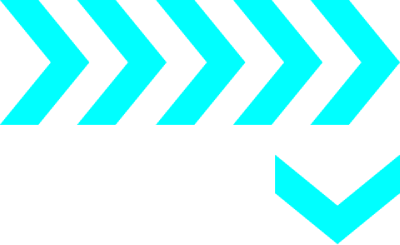
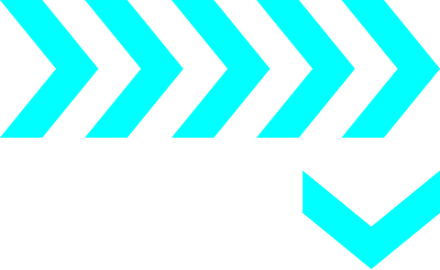
modify the mistake

diff --git a/code/test_rendering_v3/test_rendering.py b/code/test_rendering_v3/test_rendering.py
@@ -71,7 +71,7 @@ if __name__ == '__main__':
             'B2_TLI_2_b': './png/N_B2_TLI_2_b.png', 'B2_TLI_2_f': './png/N_B2_TLI_2_f.png', 'B2_TLI_2_c': './png/N_B2_TLI_2_c.png', 'B2_TLI_2_g': './png/N_B2_TLI_2_g.png', 'B2_TLI_2': './png/N_B2_TLI_2.png',
             'B2_TLI_3_a': './png/N_B2_TLI_3_a.png', 'B2_TLI_3_b': './png/N_B2_TLI_3_b.png', 'B2_TLI_3_c': './png/N_B2_TLI_3_c.png', 'B2_TLI_3_d': './png/N_B2_TLI_3_d.png',
             'B2_TAI_1': './png/N_B2_TAI_1.png', 'B2_TAI_2_a': './png/N_B2_TAI_2_a.png', 'B2_TAI_2_b': './png/N_B2_TAI_2_b.png', 'B2_TAI_2_c': './png/N_B2_TAI_2_c.png', 
-            'B2_TAI_2_d': './png/N_B2_TAI_2_d.png', 'B2_TAI_2_e': './png/N_B2_TAI_2_e.png', 'B2_TAI_2_f': './png/N_B2_TAI_2_f.png', 'B2_TAI_2': './png/N_B2_TAI_2.png',
+            'B2_TAI_2_d': './png/N_B2_TAI_2_d.png', 'B2_TAI_2_e': './png/N_B2_TAI_2_e.png', 'B2_TAI_2': './png/N_B2_TAI_2.png',
             'B2_TAI_3_a': './png/N_B2_TAI_3_a.png', 'B2_TAI_3_b': './png/N_B2_TAI_3_b.png', 'B2_TAI_3_c': './png/N_B2_TAI_3_c.png', 'B2_TAI_3_d': './png/N_B2_TAI_3_d.png', 'B2_TAI_3_e': './png/N_B2_TAI_3_e.png',
             'B3_FCW_B': './png/A_B3_FCW_B.png', 'B3_FCW_BA': './png/A_B3_FCW_BA.png', 'B3_FCW_R': './png/A_B3_FCW_R.png', 'B3_PDW_1': './png/A_B3_PDW_1.png', # B3
             'B3_PDW_2': './png/A_B3_PDW_2.png', 'B3_PDW_3': './png/A_B3_PDW_3.png', 'B3_PDW_4': './png/A_B3_PDW_4.png',
@@ -160,19 +160,18 @@ if __name__ == '__main__':
     B2_TLI_3_d = attributes(images['B2_TLI_3_d'][0], images['B2_TLI_3_d'][1], images['B2_TLI_3_d'][2], 0, 400, 182)
     
     B2_TAI_1 = attributes(images['B2_TAI_1'][0], images['B2_TAI_1'][1], images['B2_TAI_1'][2], 0, 520, 184)
-    B2_TAI_2_a = attributes(images['B2_TAI_2_a'][0], images['B2_TAI_2_a'][1], images['B2_TAI_2_a'][2], 0, 500, 172)
-    B2_TAI_2_b = attributes(images['B2_TAI_2_b'][0], images['B2_TAI_2_b'][1], images['B2_TAI_2_b'][2], 0, 480, 160)
-    B2_TAI_2_c = attributes(images['B2_TAI_2_c'][0], images['B2_TAI_2_c'][1], images['B2_TAI_2_c'][2], 0, 460, 148)
-    B2_TAI_2_d = attributes(images['B2_TAI_2_d'][0], images['B2_TAI_2_d'][1], images['B2_TAI_2_d'][2], 0, 440, 136)
-    B2_TAI_2_e = attributes(images['B2_TAI_2_e'][0], images['B2_TAI_2_e'][1], images['B2_TAI_2_e'][2], 0, 420, 124)
-    B2_TAI_2_f = attributes(images['B2_TAI_2_f'][0], images['B2_TAI_2_f'][1], images['B2_TAI_2_f'][2], 0, 400, 112)
+    B2_TAI_2_a = attributes(images['B2_TAI_2_a'][0], images['B2_TAI_2_a'][1], images['B2_TAI_2_a'][2], 0, 500, 171)
+    B2_TAI_2_b = attributes(images['B2_TAI_2_b'][0], images['B2_TAI_2_b'][1], images['B2_TAI_2_b'][2], 0, 476, 159)
+    B2_TAI_2_c = attributes(images['B2_TAI_2_c'][0], images['B2_TAI_2_c'][1], images['B2_TAI_2_c'][2], 0, 452, 155)
+    B2_TAI_2_d = attributes(images['B2_TAI_2_d'][0], images['B2_TAI_2_d'][1], images['B2_TAI_2_d'][2], 0, 428, 155)
+    B2_TAI_2_e = attributes(images['B2_TAI_2_e'][0], images['B2_TAI_2_e'][1], images['B2_TAI_2_e'][2], 0, 404, 155)
     
-    B2_TAI_2 = attributes(images['B2_TAI_2'][0], images['B2_TAI_2'][1], images['B2_TAI_2'][2], 0, 380, 100)
-    B2_TAI_3_a = attributes(images['B2_TAI_3_a'][0], images['B2_TAI_3_a'][1], images['B2_TAI_3_a'][2], 0, 380, 100)
-    B2_TAI_3_b = attributes(images['B2_TAI_3_b'][0], images['B2_TAI_3_b'][1], images['B2_TAI_3_b'][2], 0, 380, 100)
-    B2_TAI_3_c = attributes(images['B2_TAI_3_c'][0], images['B2_TAI_3_c'][1], images['B2_TAI_3_c'][2], 0, 380, 100)
-    B2_TAI_3_d = attributes(images['B2_TAI_3_d'][0], images['B2_TAI_3_d'][1], images['B2_TAI_3_d'][2], 0, 380, 100)
-    B2_TAI_3_e = attributes(images['B2_TAI_3_e'][0], images['B2_TAI_3_e'][1], images['B2_TAI_3_e'][2], 0, 380, 100)
+    B2_TAI_2 = attributes(images['B2_TAI_2'][0], images['B2_TAI_2'][1], images['B2_TAI_2'][2], 0, 380, 155)
+    B2_TAI_3_a = attributes(images['B2_TAI_3_a'][0], images['B2_TAI_3_a'][1], images['B2_TAI_3_a'][2], 0, 380, 155)
+    B2_TAI_3_b = attributes(images['B2_TAI_3_b'][0], images['B2_TAI_3_b'][1], images['B2_TAI_3_b'][2], 0, 380, 155)
+    B2_TAI_3_c = attributes(images['B2_TAI_3_c'][0], images['B2_TAI_3_c'][1], images['B2_TAI_3_c'][2], 0, 380, 155)
+    B2_TAI_3_d = attributes(images['B2_TAI_3_d'][0], images['B2_TAI_3_d'][1], images['B2_TAI_3_d'][2], 0, 380, 155)
+    B2_TAI_3_e = attributes(images['B2_TAI_3_e'][0], images['B2_TAI_3_e'][1], images['B2_TAI_3_e'][2], 0, 380, 155)
     
     B3_FCW_B = attributes(images['B3_FCW_B'][0], images['B3_FCW_B'][1], images['B3_FCW_B'][2], 0, 310, 175)
     B3_FCW_BA = attributes(images['B3_FCW_BA'][0], images['B3_FCW_BA'][1], images['B3_FCW_BA'][2], 0, 310, 175)
@@ -439,10 +438,8 @@ if __name__ == '__main__':
                 B2_TAI_2_c.alpha = renderPattern(B2_TAI_2_c.img, B2_TAI_2_c.img_x, B2_TAI_2_c.img_y, B2_TAI_2_c.img_width, B2_TAI_2_c.img_height, B2_TAI_2_c.alpha, 255, 255, 1, 255, 1, 0, count)
             elif count < start + 25:
                 B2_TAI_2_d.alpha = renderPattern(B2_TAI_2_d.img, B2_TAI_2_d.img_x, B2_TAI_2_d.img_y, B2_TAI_2_d.img_width, B2_TAI_2_d.img_height, B2_TAI_2_d.alpha, 255, 255, 1, 255, 1, 0, count)
-            elif count < start + 30:
-                B2_TAI_2_e.alpha = renderPattern(B2_TAI_2_e.img, B2_TAI_2_e.img_x, B2_TAI_2_e.img_y, B2_TAI_2_e.img_width, B2_TAI_2_e.img_height, B2_TAI_2_e.alpha, 255, 255, 1, 255, 1, 0, count)
             elif count < start + 35:
-                B2_TAI_2_f.alpha = renderPattern(B2_TAI_2_f.img, B2_TAI_2_f.img_x, B2_TAI_2_f.img_y, B2_TAI_2_f.img_width, B2_TAI_2_f.img_height, B2_TAI_2_f.alpha, 255, 255, 1, 255, 1, 0, count)
+                B2_TAI_2_e.alpha = renderPattern(B2_TAI_2_e.img, B2_TAI_2_e.img_x, B2_TAI_2_e.img_y, B2_TAI_2_e.img_width, B2_TAI_2_e.img_height, B2_TAI_2_e.alpha, 255, 255, 1, 255, 1, 0, count)
             elif count < start + 40:
                 B2_TAI_2.alpha = renderPattern(B2_TAI_2.img, B2_TAI_2.img_x, B2_TAI_2.img_y, B2_TAI_2.img_width, B2_TAI_2.img_height, B2_TAI_2.alpha, 255, 255, 1, 255, 1, 0, count)
             elif count < start + 50:
@@ -532,33 +529,33 @@ if __name__ == '__main__':
                 A3_BF_display()
 
         # A4
-        if count < 120:
-            if count < 20:
+        if count < 180:
+            if count < 45:
                 A4_S_display()
-            if count > 20 and count < 40:
-                A4_TL_display()
-            if count > 40 and count < 60:
+            if count > 45 and count < 90:
                 A4_KR_display()
-            if count > 60 and count < 80:
+            if count > 90 and count < 135:
                 A4_KL_display()
-            if count > 80 and count < 100:
-                A4_TA_display()
-            if count > 100 and count < 120:
+            if count > 135 and count < 180:
                 A4_D_display()
 
-        if count > 120 and count < 950:
+        if count > 180 and count < 390:
             A4_TR_display()
+        if count > 390 and count < 600:
+            A4_TL_display()
+        if count > 600 and count < 810:
+            A4_TA_display()
 
         # A5
         if count < 460:
             A5_display()
 
         # B5
-        if count < 950:
+        if count < 460:
             B5_display()
 
         # B6
-        if count > 950:
+        if count > 460:
             B6_display()
 
         # B1
